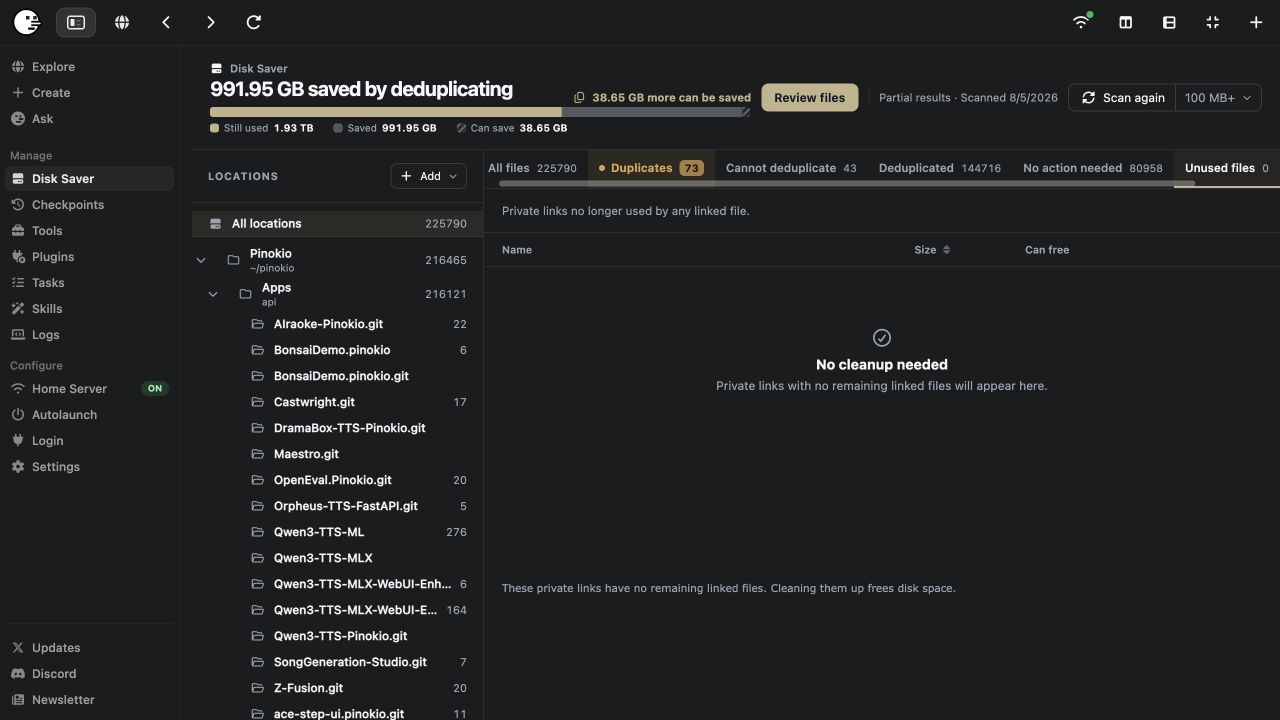
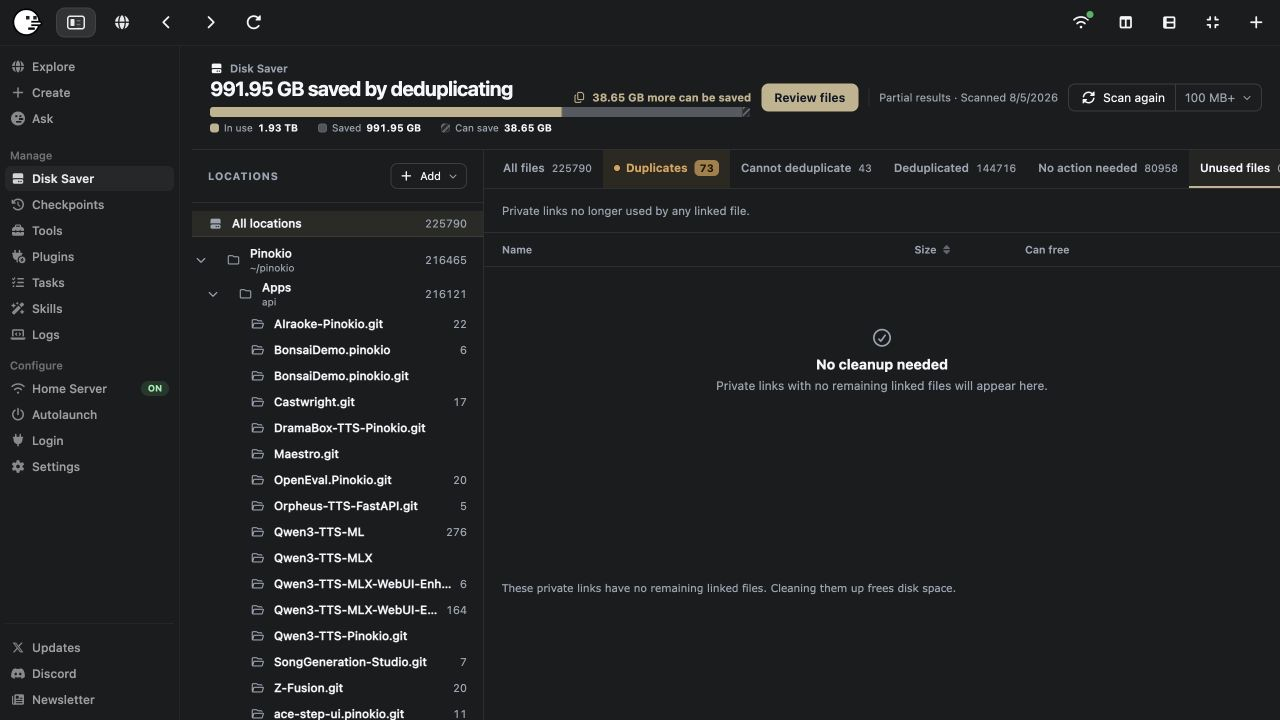
update

Changed region(s): [[0.375, 0.2139, 1.0, 0.275], [0.1875, 0.1528, 0.4375, 0.1833]]

diff --git a/README.md b/README.md
@@ -65,7 +65,7 @@ Use Search, status and location filters, and the **Folders / Files** switch to n
 
 The scan summary separates what you use now from what you could save:
 
-- **Still used:** physical space currently occupied.
+- **In use:** physical space currently occupied.
 - **Saved:** space already avoided through deduplication.
 - **Can save:** space available from eligible duplicates.
 
